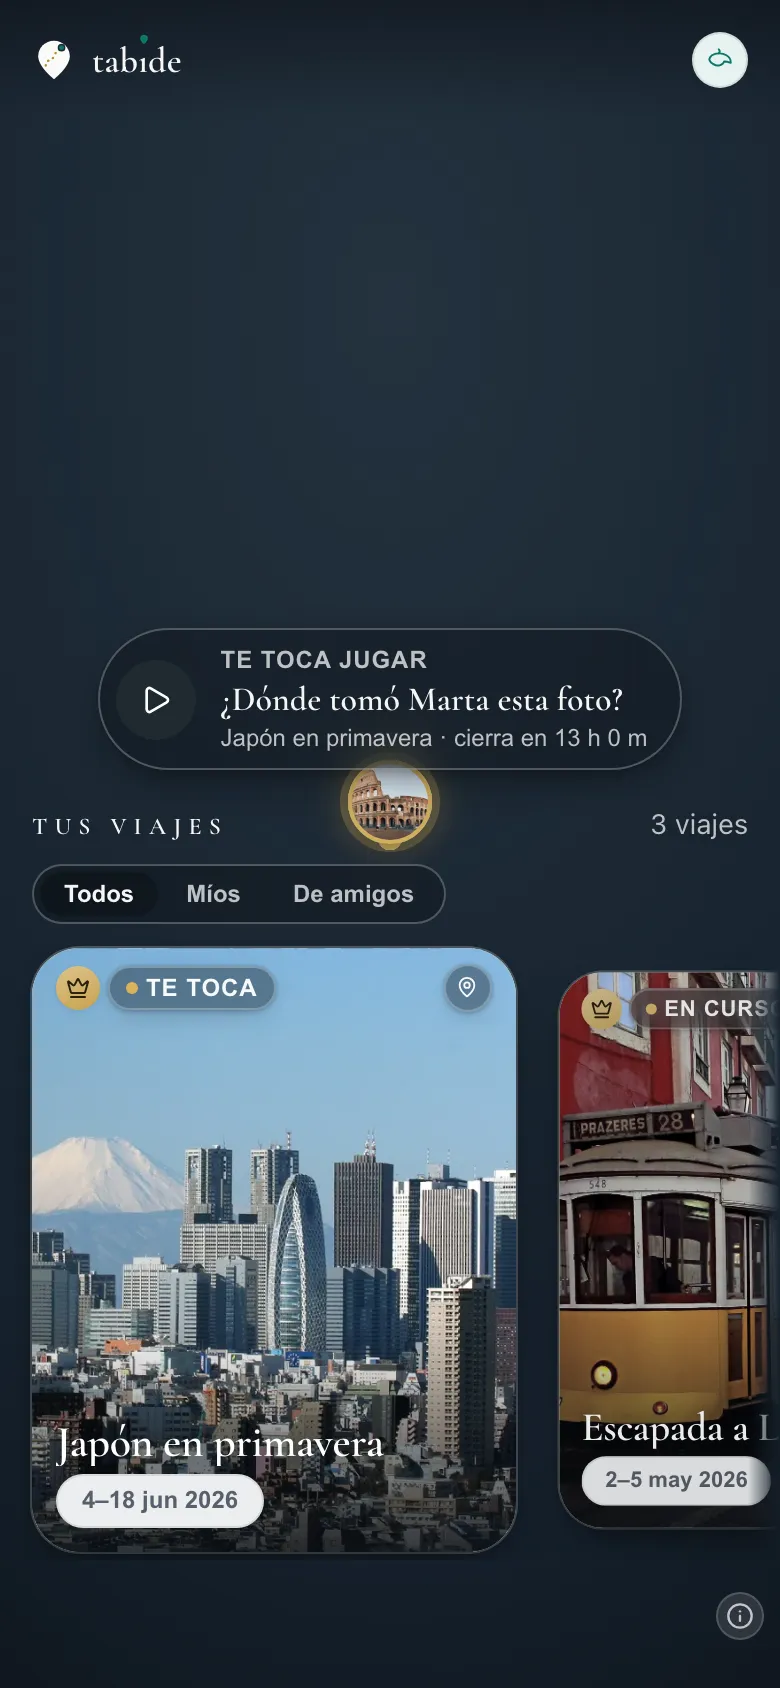
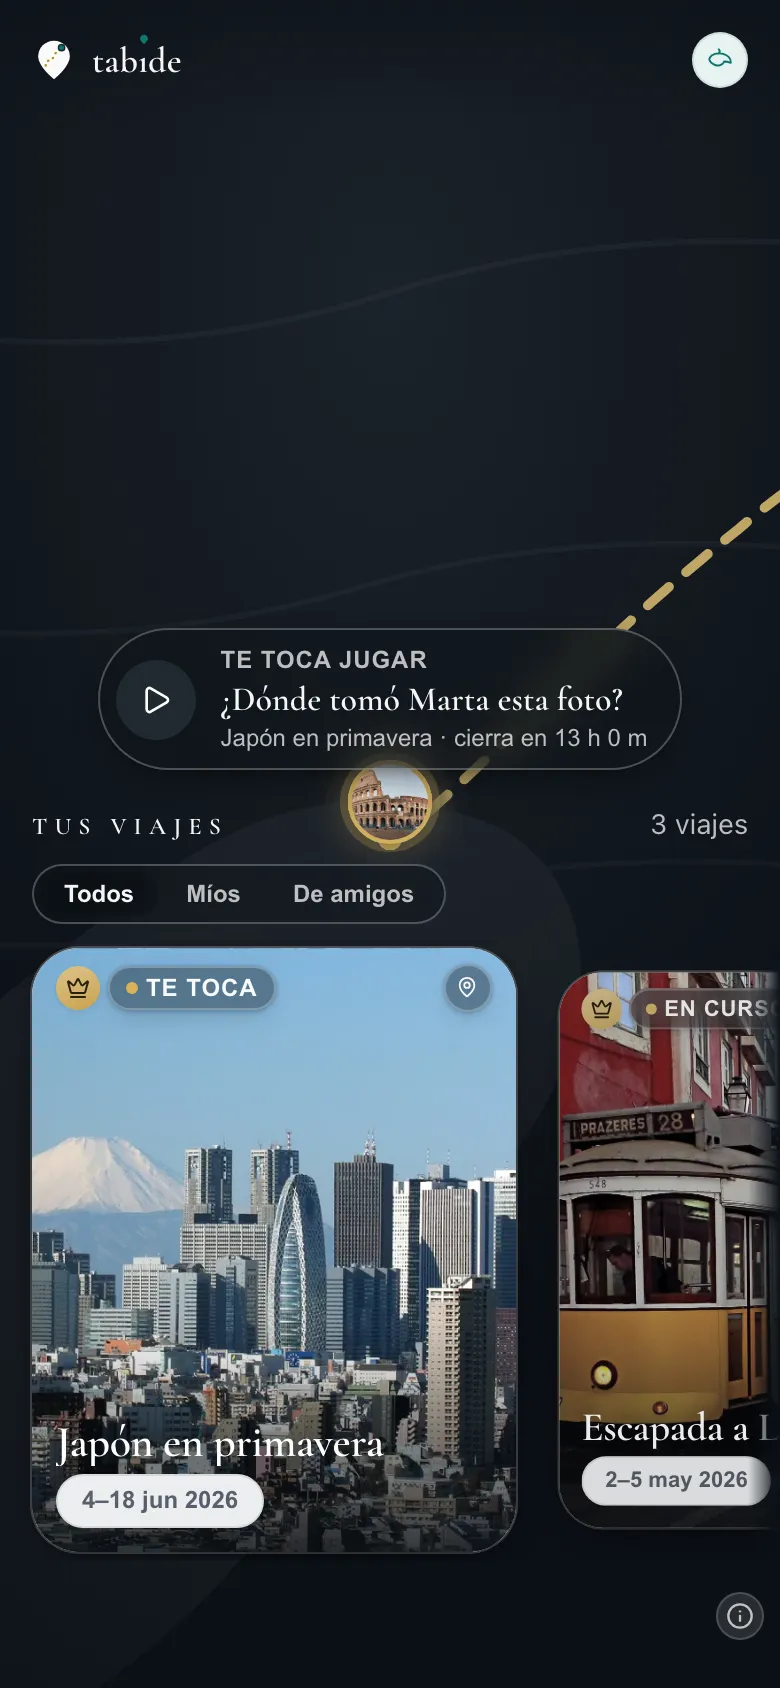
style(galeria): textura de mapa nocturno de marca en el stub de mapa (#667)
El feedback del dueño sobre #656 fue que la zona de MAPA de las capturas del
showcase salía NEGRA/rota: el stub de maplibre-gl solo pintaba un flat de
azul pizarra bajo los pines (sin tiles reales por licencia). Ahora el
constructor de `Map` (gallery/stubs/maplibre-gl.ts) pinta un SVG generativo
100% determinista (gallery/stubs/nightMapTexture.ts, coordenadas fijas —
CERO Math.random): 4 curvas de nivel/costa sutiles (--scene-bg +6% de luz
vía color-mix), una masa de tierra insinuada y la ruta punteada dorada del
logo (--route-gold), rematada en un punto teal (--accent), convergiendo en
el centro exacto del lienzo — donde `Marker.addTo` clava CUALQUIER pin del
stub (sin proyección real).

Decisión GLOBAL, no solo showcase-*: probado en 'viaje-diario' (diario
real) sin romper a11y/overflow ni el look — es decoración bajo los pines,
así que mejora TODA captura de la galería que monte un mapa stubeado.

Regenerados los webp del showcase que SÍ muestran mapa (mismos nombres,
límite ≤120KB): home 75.1KB (antes 74.9KB), viaje 46.4KB (antes 42.2KB).
jugar/resultado no muestran mapa (excluidos a propósito, #652) y salen
byte-idénticos: confirma que la textura es determinista.

Closes #661

diff --git a/web/src/gallery/stubs/nightMapTexture.ts b/web/src/gallery/stubs/nightMapTexture.ts
@@ -1,0 +1,46 @@
+// Textura de "mapa nocturno de marca" para el stub de MapLibre (issue #661): sin
+// tiles reales (licencia), el contenedor del mapa stubeado quedaba en un lienzo
+// liso que las capturas del showcase enseñaban como una zona NEGRA/rota. En vez de
+// eso, pintamos un SVG generativo 100% DETERMINISTA — coordenadas fijas, CERO
+// `Math.random` — que evoca un mapa de noche: unas curvas de nivel/costa sutiles,
+// una masa de "tierra" insinuada y la ruta punteada dorada del logo, rematada en un
+// punto teal. Mismo SVG en cada corrida, así que no rompe ninguna captura ni el a11y
+// (es un `background-image` puro — no añade nodos al DOM, no toca el árbol de
+// accesibilidad). Vive SOLO en el stub de galería: nunca se empaqueta en producción.
+
+const SCENE_BG = '#0b1016' // --scene-bg (tokens.css): mismo fondo de escena que el resto de mapas/placeholders.
+// Contorno: --scene-bg + 6 puntos de luz vía `color-mix` — mismo patrón que ya usa
+// HomeDashboard.module.css para veladuras atadas al sistema de color (no un literal
+// suelto). Sale un azul-pizarra apenas más claro que el fondo: textura, no dibujo.
+const CONTOUR_STROKE = 'color-mix(in srgb, #0b1016 94%, white 6%)'
+const ROUTE_GOLD = '#D9B96A' // hilo del logo / --route-gold: el recorrido "vivo".
+const ACCENT_TEAL = '#0F766E' // --accent: teal de marca, solo en el remate de la ruta.
+
+// Lienzo 400×300 (4:3), pensado para `background-size: cover` — el navegador
+// recorta sobrando, así que las curvas se extienden más allá de los bordes
+// (de -10 a 410) para que ningún recorte deje un canto vertical limpio y delator.
+//
+// Las 4 curvas de nivel son bezier suaves a distinta altura/amplitud (coordenadas
+// fijas, "semilla" en el sentido de constante reproducible, no de PRNG). La masa de
+// tierra es un blob translúcido que seguiría aprox. la 4ª curva, insinuando costa.
+// La ruta dorada converge en (200,150) — el CENTRO exacto del lienzo: es ahí donde
+// `Marker.addTo` (ver maplibre-gl.ts) clava CUALQUIER pin (`left: 50%; top: 50%;
+// transform: translate(-50%, -100%)`, sin proyección real), así que el trazo
+// siempre "llega" al racimo de pines-foto del caso, sea cual sea.
+const NIGHT_MAP_SVG = `
+<svg xmlns="http://www.w3.org/2000/svg" viewBox="0 0 400 300" preserveAspectRatio="xMidYMid slice">
+  <rect width="400" height="300" fill="${SCENE_BG}"/>
+  <path d="M-10,300 L-10,205 C35,180 65,215 108,192 C150,170 168,132 214,145 C238,152 240,182 222,205 C198,236 188,272 148,300 Z" fill="rgba(255,255,255,0.045)"/>
+  <path d="M-10,58 C60,36 120,78 200,52 C280,26 342,66 410,44" stroke="${CONTOUR_STROKE}" stroke-width="1" fill="none" opacity="0.7"/>
+  <path d="M-10,112 C55,92 118,128 196,104 C270,82 336,118 410,98" stroke="${CONTOUR_STROKE}" stroke-width="1" fill="none" opacity="0.6"/>
+  <path d="M-10,168 C58,150 116,182 198,160 C268,140 334,172 410,152" stroke="${CONTOUR_STROKE}" stroke-width="1" fill="none" opacity="0.55"/>
+  <path d="M-10,208 C40,190 72,222 112,200 C152,178 170,142 216,152" stroke="${CONTOUR_STROKE}" stroke-width="1" fill="none" opacity="0.5"/>
+  <path d="M368,42 C330,70 302,60 262,94 C232,118 220,134 200,150" stroke="${ROUTE_GOLD}" stroke-width="1.75" stroke-dasharray="5 4" stroke-linecap="round" fill="none" opacity="0.9"/>
+  <circle cx="368" cy="42" r="8" fill="${ACCENT_TEAL}" opacity="0.22"/>
+  <circle cx="368" cy="42" r="3.5" fill="${ACCENT_TEAL}"/>
+</svg>
+`.trim()
+
+/** Data-URI lista para `background-image`. Calculada una vez al importar (módulo
+ * puro, sin estado): el mismo string en cada carga de la galería. */
+export const NIGHT_MAP_TEXTURE_URL = `data:image/svg+xml,${encodeURIComponent(NIGHT_MAP_SVG)}`

diff --git a/web/src/gallery/stubs/maplibre-gl.ts b/web/src/gallery/stubs/maplibre-gl.ts
@@ -1,9 +1,12 @@
 // Stub de maplibre-gl para la galería (alias de Vite SOLO en el entry de galería).
 // Evita cargar el motor WebGL real y pedir tiles a la red (no determinista), pero
 // conserva la API que usan HomeGlobe y TripMapGlobe: el mapa "carga" (dispara
-// 'load') sobre un lienzo vacío y los MARCADORES SÍ se clavan (sus elementos HTML
-// se insertan en el contenedor), así los PINES siguen visibles para la revisión
+// 'load') sobre un lienzo con la textura de "mapa nocturno de marca" (issue #661,
+// ver nightMapTexture.ts) y los MARCADORES SÍ se clavan (sus elementos HTML se
+// insertan en el contenedor), así los PINES siguen visibles para la revisión
 // visual. Lo demás (tiles, vuelo, proyección) son no-ops deterministas.
+
+import { NIGHT_MAP_TEXTURE_URL } from './nightMapTexture'
 
 type LngLat = [number, number]
 
@@ -21,9 +24,19 @@ export class Map {
     const c = opts.container
     this.container = typeof c === 'string' ? document.getElementById(c) : (c ?? null)
     if (this.container) {
-      // Fondo de escena (azul pizarra) para que la zona del globo no quede en
-      // blanco; los pines se montan encima.
-      this.container.style.background = '#16222e'
+      // Fondo de escena: la textura "mapa nocturno de marca" (issue #661), no un
+      // azul pizarra liso — el feedback del dueño sobre #656 fue que la zona de
+      // mapa del showcase salía NEGRA/rota. Decisión GLOBAL (no solo showcase-*):
+      // probado en 'viaje-diario' (diario real, no showcase) sin romper a11y/
+      // overflow ni el propio look — es decoración bajo los pines, no compite con
+      // ellos — así que mejora TODA captura de la galería que monte un mapa
+      // stubeado, no solo las del showcase (ver nightMapTexture.ts para el porqué
+      // de cada elemento del dibujo).
+      this.container.style.backgroundColor = '#0b1016'
+      this.container.style.backgroundImage = `url("${NIGHT_MAP_TEXTURE_URL}")`
+      this.container.style.backgroundSize = 'cover'
+      this.container.style.backgroundPosition = 'center'
+      this.container.style.backgroundRepeat = 'no-repeat'
     }
     // 'load' en microtarea: deja que el componente registre su callback primero.
     queueMicrotask(() => {